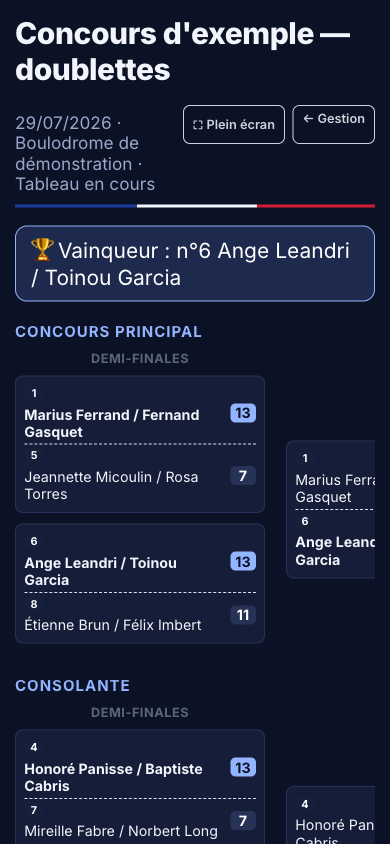
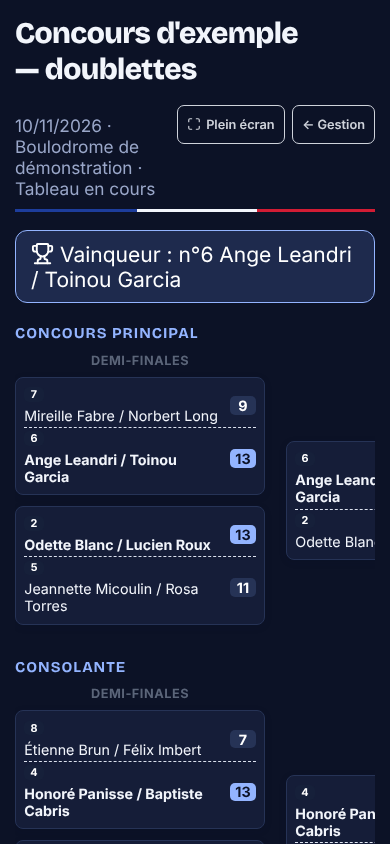
Vitrine : captures d'écran refaites sur l'interface actuelle
Les six captures montraient encore les émojis et les titres en Inter. Elles
sont reprises sur le concours d'exemple joué jusqu'aux finales (principal et
consolante), aux mêmes cadrages : tableau, poules et écran d'affichage, en
largeur d'ordinateur et de téléphone. La hauteur déclarée de la capture des
poules suit la nouvelle image (1019 px).

Au passage, un bouton-icône qui porte aussi un mot (« corriger ») laisse un
espace entre le pictogramme et le texte.

Claude-Session: https://claude.ai/code/session_01SySVUGxhQmpqsU7AoN7fAH

diff --git a/client/src/pages/LandingPage.tsx b/client/src/pages/LandingPage.tsx
@@ -551,7 +551,7 @@ export function LandingPage() {
               <Capture
                 nom="poules"
                 largeur={1280}
-                hauteur={1118}
+                hauteur={1019}
                 largeurMobile={390}
                 hauteurMobile={844}
                 alt="Deux poules de quatre équipes terminées : 1ère partie, 2e partie,

diff --git a/client/src/styles.css b/client/src/styles.css
@@ -5516,3 +5516,9 @@ h2 {
     letter-spacing: -0.015em;
   }
 }
+
+/* Un bouton-icône qui porte aussi un mot (« corriger ») : le pictogramme ne
+   colle pas au texte. */
+.btn-icon {
+  gap: 0.3rem;
+}
